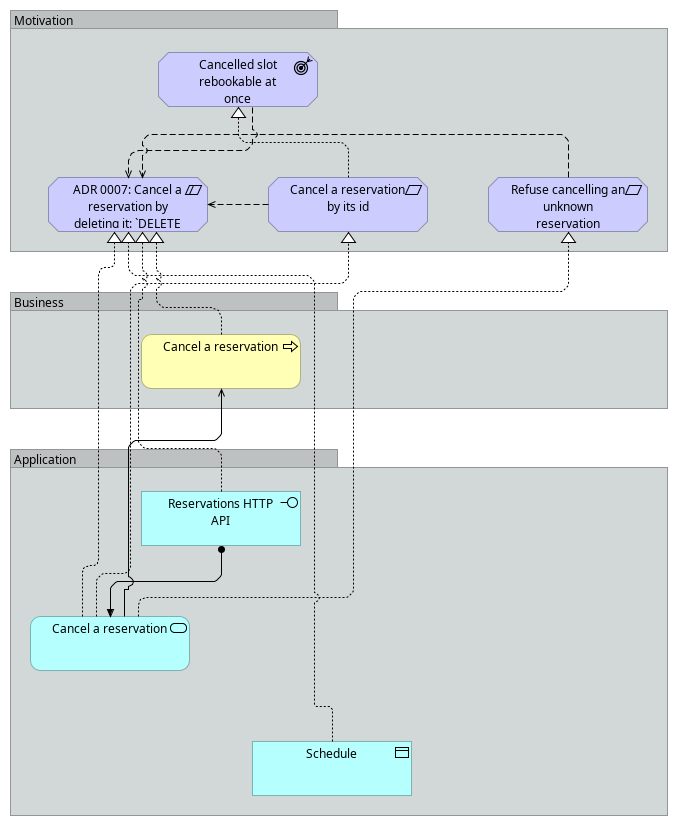
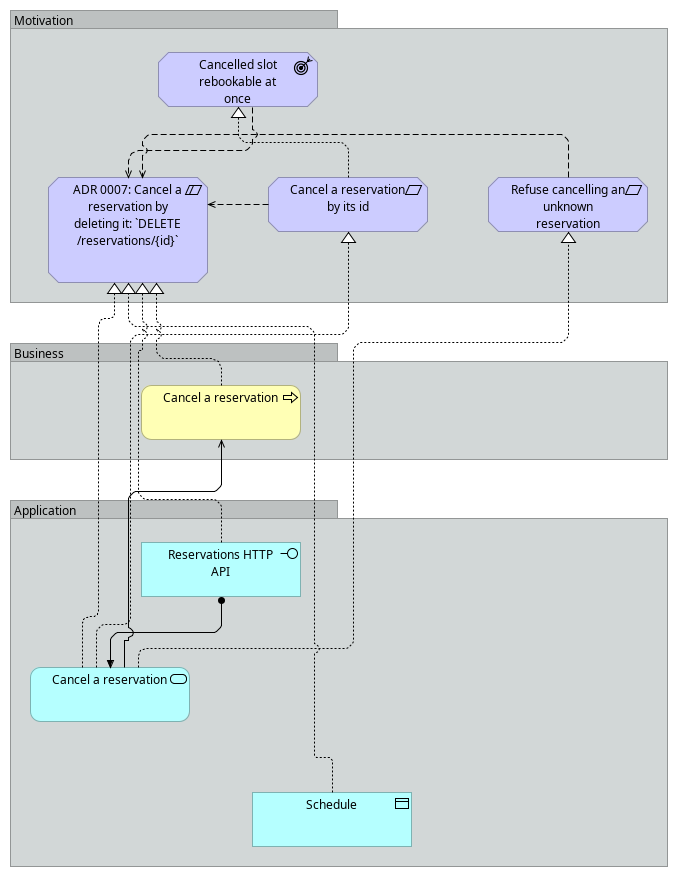
docs(architecture): re-lay out the ADR 0007 sample view with growing boxes (#70)
After merging main (task #73), the automatic layout grows the ADR box so
its whole title shows. Updates the sample details in ADR 0011 and names
follow-up #75 for spreading line ends.

Refs #69

diff --git a/docs/adr/0011-a-diagram-on-every-adr-page.md b/docs/adr/0011-a-diagram-on-every-adr-page.md
@@ -77,4 +77,7 @@ formatter to layout only, and a check keeps the view and the links in step.
 ## Option details
 Sample of task #70 (2026-11-17): the view `id-view-adr-0007` of ADR 0007
 ([`id-mot-adr-0007`](0007-cancel-reservation-by-delete.md)), 8 members in three bands (Motivation,
-Business, Application), rendered at 678 × 826 pixels.
+Business, Application), rendered at 678 × 877 pixels; the ADR box shows its whole title in four
+lines. Since task #73 the automatic layout makes a box grow in height to fit its whole name;
+spreading the ends of the lines that meet on one edge of a box (here the four Realization arrows at
+the bottom of the ADR box) is recorded as follow-up #75.
